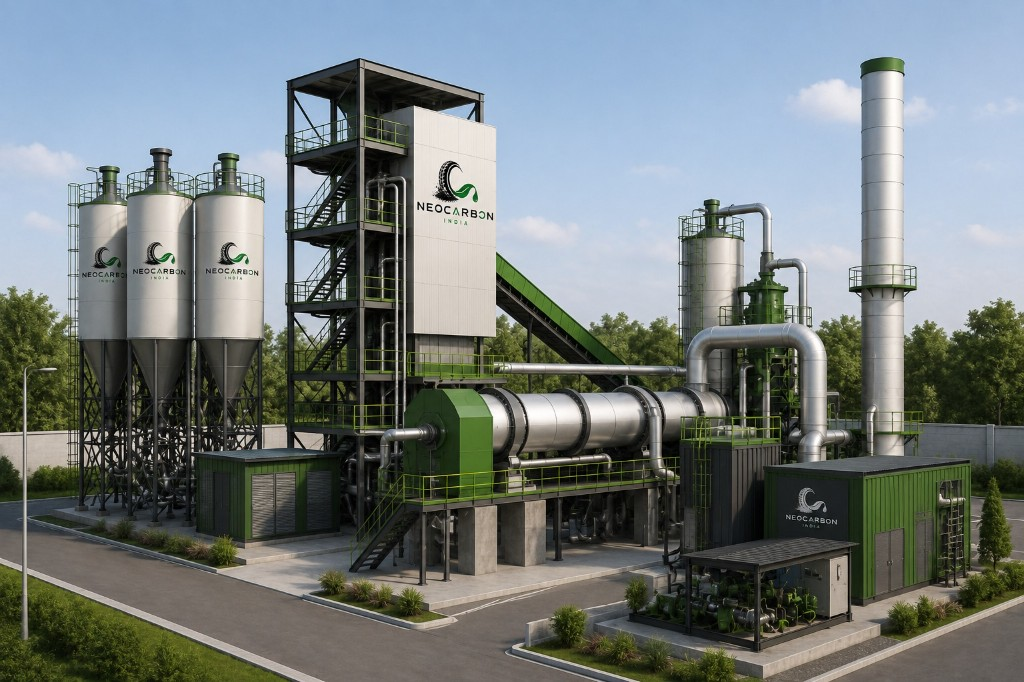
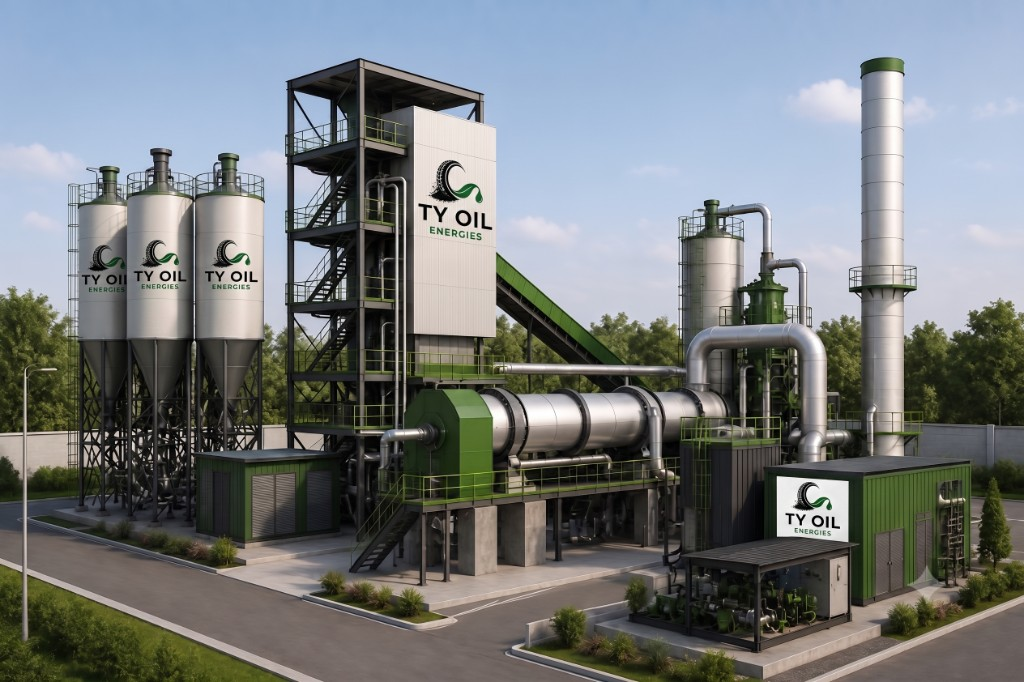
change name

diff --git a/index.html b/index.html
@@ -3,39 +3,39 @@
   <head>
     <meta charset="UTF-8" />
     <meta name="viewport" content="width=device-width, initial-scale=1.0" />
-    <title>Neo Carbon | Recovered carbon black and tyre pyrolysis oil</title>
+    <title>TY Oil Energies | Recovered carbon black and tyre pyrolysis oil</title>
     <meta
       name="description"
-      content="Neo Carbon converts end-of-life tyres into recovered carbon black, pyrolysis oil and reclaimed steel through a sealed, continuous pyrolysis process in India."
+      content="TY Oil Energies converts end-of-life tyres into recovered carbon black, pyrolysis oil and reclaimed steel through a sealed, continuous pyrolysis process in India."
     />
     <meta
       name="keywords"
-      content="Neo Carbon India, recovered carbon black, tyre pyrolysis oil, reclaimed steel, end-of-life tyres, pyrolysis plant India, NeoBlack, NeoCrude, NeoSteel"
+      content="TY Oil Energies, recovered carbon black, tyre pyrolysis oil, reclaimed steel, end-of-life tyres, pyrolysis plant India, NeoBlack, NeoCrude, NeoSteel"
     />
-    <meta name="author" content="Neo Carbon India" />
+    <meta name="author" content="TY Oil Energies" />
     <meta name="robots" content="index, follow" />
     <meta name="theme-color" content="#0a0d0a" />
     <link rel="canonical" href="https://neocarbonindia.com/" />
 
     <!-- Open Graph -->
     <meta property="og:type" content="website" />
-    <meta property="og:site_name" content="Neo Carbon India" />
-    <meta property="og:title" content="Neo Carbon | Recovered carbon black and tyre pyrolysis oil" />
+    <meta property="og:site_name" content="TY Oil Energies" />
+    <meta property="og:title" content="TY Oil Energies | Recovered carbon black and tyre pyrolysis oil" />
     <meta
       property="og:description"
-      content="Neo Carbon converts end-of-life tyres into recovered carbon black, pyrolysis oil and reclaimed steel through a sealed, continuous pyrolysis process in India."
+      content="TY Oil Energies converts end-of-life tyres into recovered carbon black, pyrolysis oil and reclaimed steel through a sealed, continuous pyrolysis process in India."
     />
     <meta property="og:url" content="https://neocarbonindia.com/" />
     <meta property="og:image" content="https://neocarbonindia.com/images/plant.jpg" />
-    <meta property="og:image:alt" content="Neo Carbon India pyrolysis recovery facility" />
+    <meta property="og:image:alt" content="TY Oil Energies pyrolysis recovery facility" />
     <meta property="og:locale" content="en_IN" />
 
     <!-- Twitter Card -->
     <meta name="twitter:card" content="summary_large_image" />
-    <meta name="twitter:title" content="Neo Carbon | Recovered carbon black and tyre pyrolysis oil" />
+    <meta name="twitter:title" content="TY Oil Energies | Recovered carbon black and tyre pyrolysis oil" />
     <meta
       name="twitter:description"
-      content="Neo Carbon converts end-of-life tyres into recovered carbon black, pyrolysis oil and reclaimed steel through a sealed, continuous pyrolysis process in India."
+      content="TY Oil Energies converts end-of-life tyres into recovered carbon black, pyrolysis oil and reclaimed steel through a sealed, continuous pyrolysis process in India."
     />
     <meta name="twitter:image" content="https://neocarbonindia.com/images/plant.jpg" />
 
@@ -53,10 +53,10 @@
       {
         "@context": "https://schema.org",
         "@type": "Organization",
-        "name": "Neo Carbon India",
+        "name": "TY Oil Energies",
         "url": "https://neocarbonindia.com/",
         "logo": "https://neocarbonindia.com/logo.png",
-        "description": "Neo Carbon converts end-of-life tyres into recovered carbon black, pyrolysis oil and reclaimed steel through a sealed, continuous pyrolysis process in India.",
+        "description": "TY Oil Energies converts end-of-life tyres into recovered carbon black, pyrolysis oil and reclaimed steel through a sealed, continuous pyrolysis process in India.",
         "email": "neocarbon.india@gmail.com",
         "address": [
           {
@@ -83,7 +83,7 @@
   <body>
     <div id="page-loader" class="page-loader" aria-live="polite" aria-label="Loading">
       <div class="loader-inner">
-        <img class="loader-logo" src="logo.png" alt="Neo Carbon India" width="200" height="116" />
+        <img class="loader-logo" src="logo.png" alt="TY Oil Energies" width="200" height="116" />
         <div class="loader-bar" role="progressbar" aria-valuemin="0" aria-valuemax="100" aria-valuenow="0">
           <span class="loader-fill"></span>
         </div>
@@ -98,7 +98,7 @@
     <header class="site-header">
       <div class="wrap nav">
         <a href="#top" class="brand">
-          <img class="brand-logo" src="logo.png" alt="Neo Carbon India" />
+          <img class="brand-logo" src="logo.png" alt="TY Oil Energies" />
         </a>
         <button class="menu-toggle" type="button" aria-expanded="false" aria-label="Open menu">
           <span></span>
@@ -124,7 +124,7 @@
           <div class="hero-copy">
             <h1 class="anim-in anim-d1">A tyre reaches the end of its life. <span>The material inside it does not.</span></h1>
             <p class="anim-in anim-d2">
-              Neo Carbon recovers carbon black, pyrolysis oil and steel from end-of-life tyres across India.
+              TY Oil Energies recovers carbon black, pyrolysis oil and steel from end-of-life tyres across India.
             </p>
             <div class="btns anim-in anim-d3">
               <a href="#technology" class="btn fill">Our technology</a>
@@ -136,7 +136,7 @@
               <img
                 class="hero-img"
                 src="images/plant.jpg"
-                alt="Neo Carbon India pyrolysis plant facility"
+                alt="TY Oil Energies pyrolysis plant facility"
                 width="720"
                 height="495"
               />
@@ -208,7 +208,7 @@
         <div class="wrap">
           <div class="split reveal reveal-left">
             <div class="split-media img-zoom">
-              <img src="images/plant.jpg" alt="Neo Carbon pyrolysis plant with silos and reactor" width="560" height="420" />
+              <img src="images/plant.jpg" alt="TY Oil Energies pyrolysis plant with silos and reactor" width="560" height="420" />
             </div>
             <div class="split-body">
               <div class="label">Technology</div>
@@ -331,7 +331,7 @@
         <div class="wrap">
           <div class="split reverse reveal reveal-right">
             <div class="split-media img-zoom">
-              <img src="images/plant.jpg" alt="Neo Carbon sustainable tyre recovery facility" width="560" height="420" />
+              <img src="images/plant.jpg" alt="TY Oil Energies sustainable tyre recovery facility" width="560" height="420" />
             </div>
             <div class="split-body">
               <div class="label">Sustainability</div>
@@ -360,11 +360,11 @@
             <div class="split-body">
               <div class="label">About</div>
               <h2>An Indian materials recovery company built around a single process, operated properly.</h2>
-              <p>Neo Carbon takes end-of-life tyres apart under controlled conditions and returns every recoverable fraction to industrial use. That is the whole business, and the plant is engineered around it rather than adapted to it.</p>
+              <p>TY Oil Energies takes end-of-life tyres apart under controlled conditions and returns every recoverable fraction to industrial use. That is the whole business, and the plant is engineered around it rather than adapted to it.</p>
               <p>We contract at both ends of the loop. Collectors, fleet operators, retreaders and municipal contractors require a documented route for the casings they hold. Manufacturers require carbon black, process oil and steel, and increasingly prefer recovered material where specification allows. We also support partners developing recovery capacity in their own regions.</p>
             </div>
             <div class="split-media img-zoom">
-              <img src="images/plant.jpg" alt="Neo Carbon India plant exterior" width="560" height="420" />
+              <img src="images/plant.jpg" alt="TY Oil Energies plant exterior" width="560" height="420" />
             </div>
           </div>
         </div>
@@ -400,10 +400,10 @@
     <footer class="site-footer">
       <div class="wrap foot">
         <div class="foot-brand">
-          <img src="logo.png" alt="Neo Carbon India" width="150" height="87" />
+          <img src="logo.png" alt="TY Oil Energies" width="150" height="87" />
         </div>
         <div class="foot-meta">
-          <div>&copy; 2026 Neo Carbon India. All rights reserved.</div>
+          <div>&copy; 2026 TY Oil Energies. All rights reserved.</div>
           <div>Recovered carbon black · Pyrolysis oil · Reclaimed steel</div>
         </div>
       </div>

diff --git a/README.md b/README.md
@@ -1,2 +1,2 @@
-# neocarbon
-neo carbon website
+# TY Oil Energies
+TY Oil Energies website
